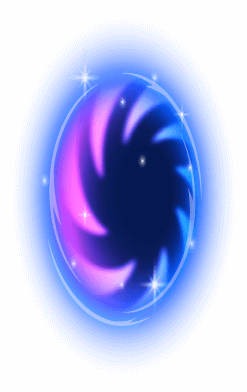
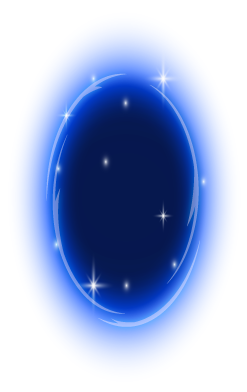
teleportation

Changed region(s): [[0.17, 0.1531, 0.8502, 0.8571], [0.5385, 0.398, 0.5951, 0.4286]]

diff --git a/assets/scripts/Field.js b/assets/scripts/Field.js
@@ -3195,35 +3195,46 @@ var createTeleport1 = function createTeleport1(field, config, data) {
   } else {
     var teleport1 = Util.createSprite({
       parent: bonusContainer,
-      texture: 'portalDotImage',
+      texture: 'Through-the-portal copy',
+      aX: 0.5,
       aY: 0.5,
-      x: -15,
+      scaleXY: 0.5,
+    });
+    var teleport2 = Util.createSprite({
+      parent: bonusContainer,
+      texture: 'spiral',
+      aX: 0.5,
+      aY: 0.5,
+      scaleXY: 0.4,
     });
     if (data.data == "teleport2") {
-      teleport1.anchor.x = 0.8;
-      teleport1.x = 15
+      teleport1.rotation = Math.PI;
+      teleport2.rotation = Math.PI;
+      teleport2.x = -5;
     } else {
-      teleport1.anchor.x = 0.2;
-      teleport1.x = -15
+      teleport2.y = 5;
+      teleport2.scale.y *= -1;
     }
 
     bonusContainer.addChild(teleport1);
-    decreasetTeleport2Alpha();
+    bonusContainer.addChild(teleport2);
+    teleport1.mask = teleport2;
+    if (data.data == "teleport2") {
+      rotateAction();
 
-    function decreasetTeleport2Alpha() {
-      if (bonusContainer.children[2] == undefined)
-        return;
-      if (bonusContainer.children[2].tweenBodyAlpha != null)
-        bonusContainer.children[2].tweenBodyAlpha.kill();
-      bonusContainer.children[2].scale.x = 0.25;
-      bonusContainer.children[2].scale.y = 0.35;
-      bonusContainer.children[2].tweenBodyAlpha = TweenMax.to(bonusContainer.children[2].scale, 2, {
-        x: 0.05,
-        y: 0.1,
-        onComplete: function onComplete() {
-          decreasetTeleport2Alpha();
-        }
-      });
+      function rotateAction() {
+        requestAnimationFrame(rotateAction);
+        if (bonusContainer.bg.texture != null)
+          bonusContainer.children[3].rotation += 0.01;
+      }
+    } else {
+      rotateAction();
+
+      function rotateAction() {
+        requestAnimationFrame(rotateAction);
+        if (bonusContainer.bg.texture != null)
+          bonusContainer.children[3].rotation -= 0.01;
+      }
     }
   }
 
@@ -3301,35 +3312,46 @@ var createTeleport2 = function createTeleport2(field, config, data) {
   } else {
     var teleport1 = Util.createSprite({
       parent: bonusContainer,
-      texture: 'portalDotImage',
+      texture: 'Through-the-portal copy',
+      aX: 0.5,
       aY: 0.5,
-      x: -15,
+      scaleXY: 0.5,
     });
-    if (data.data == "teleport2") {
-      teleport1.anchor.x = 0.2;
-      teleport1.x = -15
+    var teleport2 = Util.createSprite({
+      parent: bonusContainer,
+      texture: 'spiral',
+      aX: 0.5,
+      aY: 0.5,
+      scaleXY: 0.4,
+    });
+    if (data.data == "teleport1") {
+      teleport1.rotation = Math.PI;
+      teleport2.rotation = Math.PI;
+      teleport2.x = -5;
     } else {
-      teleport1.anchor.x = 0.8;
-      teleport1.x = 15
+      teleport2.y = 5;
+      teleport2.scale.y *= -1;
     }
 
     bonusContainer.addChild(teleport1);
-    decreasetTeleport2Alpha();
+    bonusContainer.addChild(teleport2);
+    teleport1.mask = teleport2;
+    if (data.data == "teleport1") {
+      rotateAction();
 
-    function decreasetTeleport2Alpha() {
-      if (bonusContainer.children[2] == undefined)
-        return;
-      if (bonusContainer.children[2].tweenBodyAlpha != null)
-        bonusContainer.children[2].tweenBodyAlpha.kill();
-      bonusContainer.children[2].scale.x = 0.25;
-      bonusContainer.children[2].scale.y = 0.35;
-      bonusContainer.children[2].tweenBodyAlpha = TweenMax.to(bonusContainer.children[2].scale, 2, {
-        x: 0.05,
-        y: 0.1,
-        onComplete: function onComplete() {
-          decreasetTeleport2Alpha();
-        }
-      });
+      function rotateAction() {
+        requestAnimationFrame(rotateAction);
+        if (bonusContainer.bg.texture != null)
+          bonusContainer.children[3].rotation += 0.01;
+      }
+    } else {
+      rotateAction();
+
+      function rotateAction() {
+        requestAnimationFrame(rotateAction);
+        if (bonusContainer.bg.texture != null)
+          bonusContainer.children[3].rotation -= 0.01;
+      }
     }
   }
 

diff --git a/assets/scripts/App.js b/assets/scripts/App.js
@@ -107,14 +107,14 @@ NORD.initGameDefinitions = function() {
   }, {
     name: 'profanityNames',
     url: 'assets/ProfanityNames.json'
-  },  {
+  }, {
     type: 'AUDIO',
     name: 'BGM',
     url: 'assets/sound/BGM',
     formats: audioFormats,
-    autoplay: true,
-    loop : true,
-  },{
+    autoplay: false,
+    loop: true,
+  }, {
     type: 'AUDIO',
     name: 'sound_click',
     url: 'assets/sound/ButtonTap',
@@ -155,7 +155,7 @@ NORD.initGameDefinitions = function() {
     name: 'player1_hit_ball',
     url: 'assets/sound/BallHitPaddle',
     formats: audioFormats
-  },{
+  }, {
     type: 'AUDIO',
     name: 'BallHitPaddle',
     url: 'assets/sound/BallHitPaddle',
@@ -243,7 +243,7 @@ NORD.initGameDefinitions = function() {
   }, {
     name: 'PopupSub',
     url: 'assets/images/popup/PopupSub.png'
-  },{
+  }, {
     name: 'PopupSmall',
     url: 'assets/images/popup/PopupSmall.png'
   }, {
@@ -264,6 +264,12 @@ NORD.initGameDefinitions = function() {
   }, {
     name: 'portalDotImage',
     url: 'assets/images/popup/gameplayPopup/Mode/Dot-Image.png'
+  }, {
+    name: 'Through-the-portal copy',
+    url: 'assets/images/popup/gameplayPopup/Mode/Through-the-portal copy.png'
+  }, {
+    name: 'spiral',
+    url: 'assets/images/popup/gameplayPopup/Mode/spiral.png'
   }, {
     name: 'portal1',
     url: 'assets/images/popup/gameplayPopup/Mode/Through-the-portal.png'
@@ -492,7 +498,7 @@ NORD.initGameDefinitions = function() {
   }, {
     name: 'ShareButton',
     url: 'assets/images/result/ShareButton.png'
-  },{
+  }, {
     name: 'DarkLayer',
     url: 'assets/images/result/DarkLayer.png'
   }]);

diff --git a/assets/scripts/FieldBonuses.js b/assets/scripts/FieldBonuses.js
@@ -544,7 +544,7 @@ NORD.Field.GravityWell.prototype.update = function() {
 
     if (distance < maxDistance * 1.1) {
       if (_this10.balls.indexOf(ball) == -1) {
-      //  NORD.audioManager.playAudio('gravity_well');
+        //  NORD.audioManager.playAudio('gravity_well');
 
         _this10.balls.push(ball);
       }
@@ -947,7 +947,7 @@ GameStartText.prototype.play = function(callback) {
       // this.textGo.alpha = 1.0;
       // this.textGo.y = 0;
       // this.textReady.y = 0;
-     // NORD.audioManager.playAudio('ready');
+      // NORD.audioManager.playAudio('ready');
       _this19.tween1 = TweenMax.to(_this19.textReady, 6 / 30, {
         y: 30,
         alpha: 0.0,
@@ -965,7 +965,7 @@ GameStartText.prototype.play = function(callback) {
         delay: 1.0 + 3 / 30,
         ease: Power4.easeInOut,
         onComplete: function onComplete() {
-         // NORD.audioManager.playAudio('go');
+          // NORD.audioManager.playAudio('go');
           _this19.tween1 = TweenMax.to(_this19.textGo, 6 / 30, {
             y: 30,
             alpha: 0.0,
